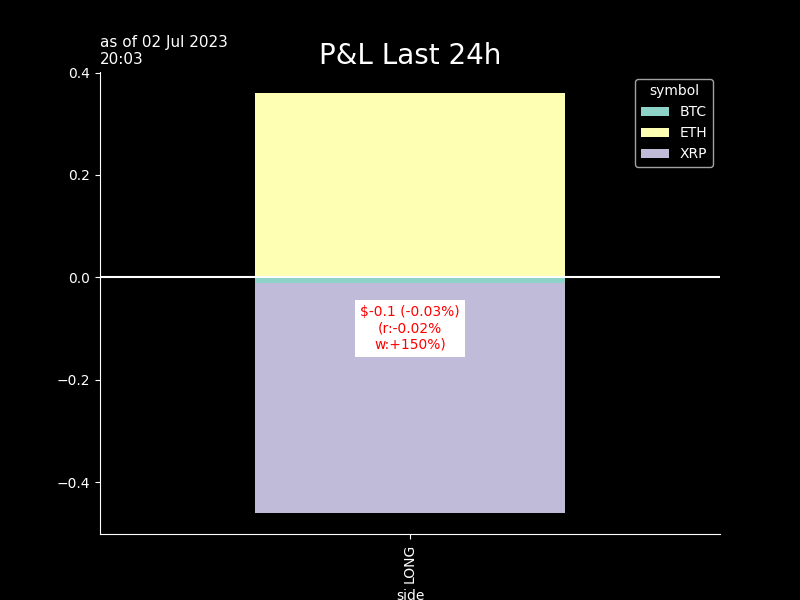
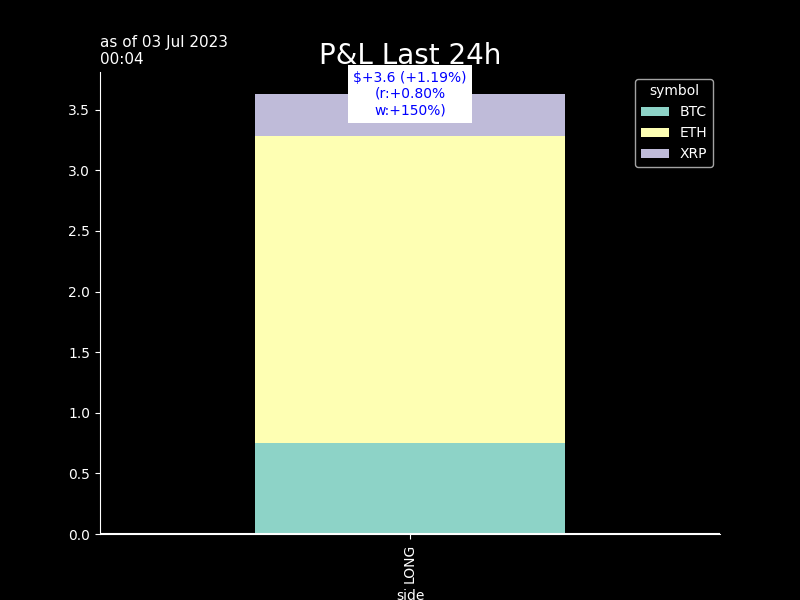
seb_commit

diff --git a/crypto/graphs/bt_trades_book.htmltrade_trades_book.html b/crypto/graphs/bt_trades_book.htmltrade_trades_book.html
@@ -38,54 +38,54 @@
   <tbody>
     <tr>
       <th>ETHUSDT</th>
-      <td>1907.9100</td>
-      <td>2023-07-02 18:34:40</td>
-      <td>0.079</td>
-      <td>$150.7</td>
-      <td>$0.02</td>
+      <td>1939.9200</td>
+      <td>2023-07-02 23:02:56</td>
+      <td>-0.079</td>
+      <td>$-153.3</td>
+      <td>$0.03</td>
       <td>1.6</td>
+      <td>2.5</td>
+      <td>1942.14500</td>
+      <td>2023-07-03 00:01</td>
+      <td>-0.2</td>
+      <td>-12.0</td>
+      <td>1939.42</td>
       <td>0.0</td>
-      <td>1907.08500</td>
-      <td>2023-07-02 19:33</td>
-      <td>-0.1</td>
-      <td>-5.0</td>
-      <td>1907.5</td>
-      <td>-0.0</td>
-      <td>-2.0</td>
-    </tr>
-    <tr>
-      <th>XRPUSDT</th>
-      <td>0.4826</td>
-      <td>2023-07-02 18:34:19</td>
-      <td>313.800</td>
-      <td>$151.4</td>
-      <td>$0.02</td>
-      <td>1.6</td>
-      <td>0.0</td>
-      <td>0.48235</td>
-      <td>2023-07-02 19:33</td>
-      <td>-0.1</td>
-      <td>-5.0</td>
-      <td>.4825</td>
-      <td>-0.0</td>
-      <td>-2.0</td>
+      <td>3.0</td>
     </tr>
     <tr>
       <th>BTCUSDT</th>
-      <td>30475.4000</td>
-      <td>2023-07-02 18:35:55</td>
-      <td>0.005</td>
-      <td>$152.4</td>
-      <td>$0.02</td>
+      <td>30625.9000</td>
+      <td>2023-07-02 23:03:00</td>
+      <td>-0.005</td>
+      <td>$-153.1</td>
+      <td>$0.03</td>
       <td>1.6</td>
-      <td>0.0</td>
-      <td>30460.05000</td>
-      <td>2023-07-02 19:33</td>
+      <td>0.8</td>
+      <td>30638.95000</td>
+      <td>2023-07-03 00:01</td>
       <td>-0.1</td>
       <td>-5.0</td>
-      <td>30467.6</td>
+      <td>30621.8</td>
+      <td>0.0</td>
+      <td>1.0</td>
+    </tr>
+    <tr>
+      <th>XRPUSDT</th>
+      <td>0.4837</td>
+      <td>2023-07-02 23:04:12</td>
+      <td>-313.800</td>
+      <td>$-151.8</td>
+      <td>$0.02</td>
+      <td>1.6</td>
+      <td>0.3</td>
+      <td>0.48465</td>
+      <td>2023-07-03 00:01</td>
+      <td>-0.3</td>
+      <td>-20.0</td>
+      <td>.4838</td>
       <td>-0.0</td>
-      <td>-3.0</td>
+      <td>-2.0</td>
     </tr>
   </tbody>
 </table>

diff --git a/crypto/graphs/bt_trades_pnlD_recap.htmltrade_trades_pnlD_recap.html b/crypto/graphs/bt_trades_pnlD_recap.htmltrade_trades_pnlD_recap.html
@@ -1,7 +1,7 @@
 <table border="1" class="dataframe">
   <thead>
     <tr style="text-align: right;">
-      <th>02 Jul 19:36</th>
+      <th>03 Jul 00:04</th>
       <th>realizedPnl</th>
       <th>PnLvsArrival</th>
       <th>PnLvsLast</th>
@@ -10,21 +10,21 @@
   <tbody>
     <tr>
       <th>in$</th>
+      <td>3.6</td>
+      <td>-0.6</td>
       <td>0.0</td>
-      <td>-0.2</td>
-      <td>-0.1</td>
     </tr>
     <tr>
-      <th>in bp 454 traded</th>
-      <td>0 bp</td>
-      <td>-5 bp</td>
-      <td>-2 bp</td>
+      <th>in bp 458 traded</th>
+      <td>79 bp</td>
+      <td>-12 bp</td>
+      <td>1 bp</td>
     </tr>
     <tr>
-      <th>in bp 302 AUMs</th>
-      <td>0 bp</td>
-      <td>-8 bp</td>
-      <td>-3 bp</td>
+      <th>in bp 306 AUMs</th>
+      <td>118 bp</td>
+      <td>-18 bp</td>
+      <td>1 bp</td>
     </tr>
   </tbody>
 </table>

diff --git a/crypto/graphs/bt_trades_recap.htmltrade_trades_recap.html b/crypto/graphs/bt_trades_recap.htmltrade_trades_recap.html
@@ -9,28 +9,28 @@
   <tbody>
     <tr>
       <th>as of</th>
-      <td>02Jul 18:34&gt;&gt;18:35</td>
+      <td>02Jul 23:02&gt;&gt;23:04</td>
       <td>#trades: 3</td>
     </tr>
     <tr>
       <th>trade net</th>
-      <td>+455.0</td>
-      <td>+150.3%</td>
+      <td>-458.0</td>
+      <td>-149.3%</td>
     </tr>
     <tr>
       <th>trade gross</th>
-      <td>+455.0</td>
-      <td>+150.3%</td>
+      <td>+458.0</td>
+      <td>+149.3%</td>
     </tr>
     <tr>
       <th>BUY</th>
-      <td>+455.0</td>
-      <td>+150.3%</td>
+      <td>+0.0</td>
+      <td>+0.0%</td>
     </tr>
     <tr>
       <th>SELL</th>
-      <td>+0.0</td>
-      <td>+0.0%</td>
+      <td>-458.0</td>
+      <td>-149.3%</td>
     </tr>
     <tr>
       <th>fees</th>
